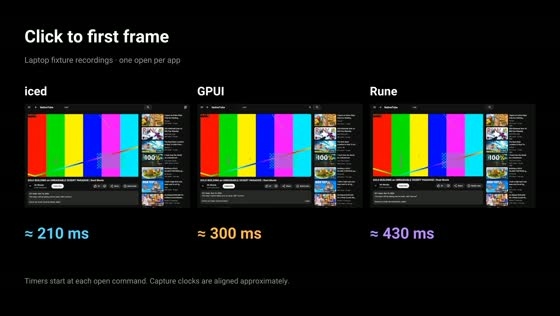
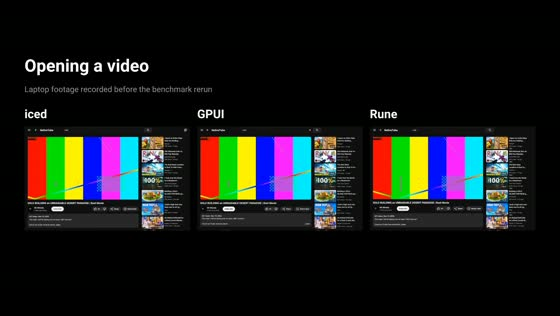
Animate framework update paths and clarify benchmark footage

diff --git a/tools/viz/obsidian.py b/tools/viz/obsidian.py
@@ -322,6 +322,86 @@ def demo():
     return {"feature captures": [str(shot[0].relative_to(data.ROOT)) for shot in shots]}
 
 
+def framework_updates():
+    """Animate a UI update and two portions of an illustrative scroll."""
+    updates = (
+        ("Widget message", "Update, then view"),
+        ("Entity update", "View invalidation"),
+        ("Live value", "Bound property"),
+    )
+    paths = (
+        ("iced", "Custom scroller", "Translate cards", "Message + relayout"),
+        ("gpui", "Invalidate page", "Taffy layout", "Taffy layout"),
+        ("rune", "Live offset", "Translate cards", "Commit view + layout"),
+    )
+    update_time, scroll_time = 4.25, 9.75
+
+    def frame(t, _cache):
+        scrolling = t >= update_time
+        scroll_at = t - update_time
+        crosses_band = scroll_at >= 4.8
+        if scrolling:
+            progress = ease_out((scroll_at - (5.15 if crosses_band else .8)) / 1.9)
+            offset = round(44 + 83 * progress if crosses_band else 44 * progress)
+            heading = "One scroll, three paths"
+            phase = "Crossing a band boundary" if crosses_band else "Scrolling within a band"
+        else:
+            progress = ease_out((t - .55) / 2.2)
+            offset = 0
+            heading = "From state to screen"
+            phase = "Example: highlight a thumbnail"
+        image = Image.new("RGB", SIZE, "black")
+        draw = ImageDraw.Draw(image)
+        draw.text((112, 92), heading, font=face(80, True), fill=WHITE)
+        draw.text((116, 205), phase, font=face(42), fill="#d6d6d6")
+        draw.text((1808, 218), "NativeTube · schematic", font=face(30), fill=SECONDARY, anchor="ra")
+
+        for index, ((app, scroller, within, across), (event, update)) in enumerate(zip(paths, updates, strict=True)):
+            y = 371 + index * 221
+            color = data.APP_COLORS[app]
+            draw.text((116, y), data.NAMES[app], font=face(62, True), fill=color, anchor="lm")
+            for edge, (start, end) in enumerate(((665, 782), (1224, 1344))):
+                draw.line((start, y, end, y), fill=RING, width=3)
+                draw.polygon(((end, y), (end - 12, y - 7), (end - 12, y + 7)), fill=RING)
+                pulse = 2 * progress - edge
+                if 0 < pulse < 1:
+                    draw.circle((start + (end - start) * pulse, y), 6, fill=color)
+
+            entry = scroller if scrolling else event
+            stage = (across if crosses_band else within) if scrolling else update
+            highlight = (app == "gpui" or crosses_band) if scrolling else progress > .5
+            for left, right, text, emphatic in (
+                (339, 665, entry, False),
+                (782, 1224, stage, highlight),
+            ):
+                draw.rounded_rectangle((left, y - 51, right, y + 51), radius=16,
+                                       fill="#171717" if emphatic else "#0c0c0c",
+                                       outline=color if emphatic else RING, width=2)
+                draw.text(((left + right) / 2, y), text, font=face(40, emphatic),
+                          fill=WHITE, anchor="mm")
+
+            # Clip the same moving stack to each viewport. The schematic uses equal motion.
+            tile = Image.new("RGB", (440, 150), "#101010")
+            cards = ImageDraw.Draw(tile)
+            for card in range(5):
+                top = 16 + 65 * card - offset
+                cards.rounded_rectangle((22, top, 417, top + 49), radius=8,
+                                        fill="#252525" if card % 2 == 0 else "#303030")
+                accented = card == (2 if scrolling else 1) and (scrolling or progress > .86)
+                cards.rounded_rectangle((32, top + 9, 86, top + 40), radius=4,
+                                        fill=color if accented else "#565656")
+                cards.line((104, top + 19, 260 + 20 * card, top + 19), fill="#a0a0a0", width=4)
+                cards.line((104, top + 32, 199 + 18 * card, top + 32), fill="#666666", width=3)
+            image.paste(tile, (1356, y - 75))
+            draw.rectangle((1356, y - 75, 1795, y + 74), outline=RING, width=2)
+
+        return image
+
+    encode_frames(data.OUT / "FrameworkUpdates.mp4", update_time + scroll_time, frame)
+    return {"NativeTube scroll paths": ["apps/iced/src/scroller.rs", "apps/gpui/NOTES.md",
+                                       "apps/rune/src/scroller.rs", "apps/rune/src/view.rs"]}
+
+
 def scroll_clip():
     """Keep the recorder's wall-clock timing for the continuous touchpad gesture."""
     WORK.mkdir(parents=True, exist_ok=True)

diff --git a/tools/viz/tours.py b/tools/viz/tours.py
@@ -360,15 +360,14 @@ def variant_name(replay, fly_cut):
 
 
 def first_frame_clip():
-    """One click per app at original speed, with the timer directly below its footage."""
+    """Show one archived video open per app at original speed."""
     WORK.mkdir(parents=True, exist_ok=True)
     lead, seconds = .75, 4.25
-    panel_w, panel_h, top = 568, 356, 354
+    panel_w, panel_h, top = 568, 356, 432
     overlay = Overlay()
-    overlay.text("Click to first frame", 84, 122, 0, seconds, size=78, bold=True)
-    overlay.text("Laptop fixture recordings · one open per app", 84, 204, 0, seconds, size=36, color=MUTED)
-    overlay.text("Timers start at each open command. Capture clocks are aligned approximately.",
-                 84, 959, 0, seconds, color=MUTED)
+    overlay.text("Opening a video", 84, 222, 0, seconds, size=78, bold=True)
+    overlay.text("Laptop footage recorded before the benchmark rerun",
+                 84, 304, 0, seconds, size=36, color=MUTED)
     args = ["ffmpeg", "-nostdin", "-hide_banner", "-loglevel", "error", "-y", "-filter_complex_threads", "2",
             "-f", "lavfi", "-i", f"color=black:s={W}x{H}:r={FPS}:d={seconds}"]
     graph, current, sources = [], "0:v", {}
@@ -381,17 +380,8 @@ def first_frame_clip():
         graph.append(f"[{i}:v]fps={FPS},scale={panel_w}:{panel_h},setsar=1[v{i}]")
         graph.append(f"[{current}][v{i}]overlay={x}:{top}[m{i}]")
         current = f"m{i}"
-        color = data.APP_COLORS[app]
-        overlay.text(data.NAMES[app], x, 310, 0, seconds, size=54, bold=True)
-        elapsed = tour.visible_frame - tour.opened
-        stop = lead + elapsed
-        for tick in range(math.ceil(elapsed * 30)):
-            start = lead + tick / 30
-            overlay.text(f"{round(tick * 100 / 30) * 10} ms", x, 795, start, min(stop, start + 1 / 30),
-                         size=70, mono=True, color=MUTED)
-        overlay.text(f"≈ {round(elapsed * 100) * 10} ms", x, 795, stop, seconds,
-                     size=70, mono=True, bold=True, color=color)
-        sources[f"{app} capture and clock"] = tour.sources
+        overlay.text(data.NAMES[app], x, top - 44, 0, seconds, size=54, bold=True)
+        sources[f"{app} archived capture and edit alignment"] = tour.sources
     ass = WORK / "FirstFrameRealTime.ass"
     overlay.write(ass)
     graph.append(f"[{current}]ass={ass.relative_to(data.ROOT)}:fontsdir=assets/fonts[out]")

diff --git a/tools/viz/render.py b/tools/viz/render.py
@@ -35,7 +35,7 @@ STILLS = (
     "FramePathStill", "EGLStill", "InstructionsStill", "PerCoreStill",
     "GPUStill", "SizesStill", "UpstreamStill", "CostStill",
 )
-PUBLICATION_VIDEOS = ("Demo", "FirstFrameRealTime", "ScrollRealTime")
+PUBLICATION_VIDEOS = ("Demo", "FrameworkUpdates", "FirstFrameRealTime", "ScrollRealTime")
 
 
 def scene_set(file, names, resolution, *, still, fly):
@@ -380,6 +380,7 @@ def main():
     existing = data.read(".cache/viz/out/sources.json") if (data.OUT / "sources.json").is_file() else {}
     for name, build in {
         "Demo": obsidian.demo,
+        "FrameworkUpdates": obsidian.framework_updates,
         "FirstFrameRealTime": tours.first_frame_clip,
         "ScrollRealTime": obsidian.scroll_clip,
     }.items():

diff --git a/docs/blog/x-article.md b/docs/blog/x-article.md
@@ -2,7 +2,7 @@
 
 For a Rust desktop app on Linux, I'd start with **iced**, reach for **GPUI** if layered controls are central to the design, and try **Rune** if I wanted reactive bindings for a custom UI and could pin a pre-1.0 toolkit.
 
-- **iced** had the lowest idle memory on both test machines with the video player prewarmed. It used the least CPU for scrolling and opened video fastest on the CPU-rendered VM. Its message-driven architecture made floating controls more work to wire up.
+- **iced** had the lowest idle memory on both test machines with the video player prewarmed. On the CPU-rendered VM, it used the least CPU for scrolling and opened video fastest. Its message-driven architecture made floating controls more work to wire up.
 - **GPUI** made floating menus, video overlays, and a custom seek bar easiest to build. It used the most idle memory and spent the most CPU time scrolling on the laptop. Two video opens timed out with prewarm disabled.
 - **Rune** used the fewest CPU instructions per drawn scroll frame on the laptop and had the lowest peak memory in the short playback test. This build required a git pin and two crate forks.
 
@@ -22,7 +22,9 @@ All three use the same Rust core for networking, image caching, scroll physics, 
 
 ### How each framework updates the UI
 
-**iced** follows an Elm-style loop. Widgets emit messages, `update(&mut self, Message)` changes state and can return a task, and `view` describes the UI. The mutable borrow keeps updates from re-entering. In NativeTube, a custom scroller uses `with_translation` to shift already-laid-out children until the visible range changes. Floating controls need more explicit state and message wiring.
+[MEDIA: .cache/viz/out/FrameworkUpdates.mp4 — How state reaches the screen in each framework, followed by an animated diagram of what changes during a NativeTube scroll.]
+
+**iced** follows an Elm-style loop. Widgets emit messages, `update(&mut self, Message)` changes state and can return a task, and `view` describes the UI. The mutable borrow keeps updates from re-entering. In NativeTube, a custom scroller uses `with_translation` to shift already-laid-out children. Once the scroll offset crosses a threshold, the scroller sends a message to rebuild the band of mounted cards. Floating controls need more explicit state and message wiring.
 
 **GPUI** keeps state in entities and renders views from that state. It checks entity borrows at runtime, so a callback that re-enters an entity update can panic. GPUI's `anchored()` and `deferred()` primitives make it easy to position and layer floating UI. In our client, scrolling still invalidates the page view and runs Taffy layout even with the page split into five cached views.
 
@@ -42,13 +44,13 @@ That single architectural change dwarfed every toolkit difference:
 
 - **Intel GPU laptop (shipped defaults, matched rerun):** the native apps used **0.087–0.100 cores** on the subsurface path vs. **0.418–0.422 cores** on forced software. The CPU retired **1.16–1.41 million instructions per rendered video frame** on the GPU path vs. **22.1–22.4 million** on forced software—a **16–19× reduction** across all three clients.
 - **GPU-less Fly VM (the flip):** Mesa's `llvmpipe` emulated OpenGL on the CPU, so the default EGL path burned **about 3.27 cores** and rendered roughly **150–154 frames in six seconds**, whereas forced software used **1.20–2.11 cores** and rendered **about 180 frames**.
-- **No energy claim:** System-wide Intel RAPL counters were too noisy to separate playback from idle (70–84 J idle vs. 62–96 J playing; GPU 1.27–1.75 vs. 1.54–1.56 J). Those readings leave the battery-life effect unresolved.
+- **Battery life remains an open question.** In the earlier AC counter study, package energy varied enough that the idle and playback readings overlapped.
 
 ---
 
 ## 3. Startup and Time to First Frame
 
-[MEDIA: .cache/viz/out/FirstFrameRealTime.mp4 — One open per app at normal speed. Each timer stops on the first visible fixture frame. These archived captures use approximate clock alignment.]
+[MEDIA: .cache/viz/out/FirstFrameRealTime.mp4 — One video open per app at normal speed, recorded before the matched benchmark below.]
 
 I matched the comment loading, prewarm timing, and first-frame markers. I also fixed double thumbnail decoding in Rune at 2× scale and sent iced’s scripted wheel events through its normal scroller.
 
@@ -96,7 +98,7 @@ The scroll paths in section 1 explain part of the spread. The viewports also mou
 
 ## 5. Memory: Idle and Playback Peaks Tell Different Stories
 
-The bottom row of the matched chart in Section 3 shows a clean split: with full prewarm, iced had the lowest Home idle memory on both machines, while Rune had the lowest peak across the short scenario (Home, open a video, six seconds of playback, then switch).
+With full prewarm, iced had the lowest Home idle memory on both machines. Rune had the lowest peak in the short playback scenario (Home, open a video, play for six seconds, then switch). The table includes both machines, and the chart in Section 3 shows the laptop results.
 
 | Full prewarm, process-tree PSS | iced | GPUI | Rune |
 |---|---:|---:|---:|
@@ -222,6 +224,8 @@ On Arrow Lake-P, `GT0` hosts render (`RCS`), copy (`BCS`), and compute (`CCS`); 
 
 - **GPU playback (10 s):** all three converged tightly—RCS **69.63** (iced) / **74.71** (GPUI) / **75.06** (Rune) Mcycles; VCS **16.19 / 9.12 / 8.70** Mcycles; BCS and CCS 0.00; RC6 sleep residency **7.75–7.82 s** out of 10 s.
 - **Wheel scroll (~2.7 s, 161–163 frames at 60 fps):** GPUI logged **35.56 Mcycles** RCS (runs: 28.4, 46.7, 35.6; 0.00 VCS) vs. Rune's **68.33 Mcycles** (runs: 77.4, 68.3, 67.8; 0.00 VCS). Rune also logged 1–2 long frames per run (max 29–64 ms), while iced and GPUI had zero. iced's wheel runs 1–2 were contaminated by other system activity, source unrecorded (RCS 348.0 / 123.6, VCS 18.1 / 14.3, package 48.1 / 48.8 J); clean run 3 dropped to **38.5 Mcycles** RCS and **0.46** VCS (23.2 J).
+
+In the earlier AC counter study, Intel RAPL measured **70–84 J** of package energy over 10 seconds at idle and **62–96 J** over 10 seconds of playback. During playback, GPU-domain energy was **1.27–1.75 J** on the software path and **1.54–1.56 J** on the GPU subsurface path.
 
 ### Subsurface, EGL vendor selection, and playback pipeline details
 

diff --git a/tools/viz/README.md b/tools/viz/README.md
@@ -41,8 +41,9 @@ Everything renders on pure black. Glass (#121212 with sheen and an 8 % rim) is l
 
 The side-by-sides use archived footage. A 2 × 2 grid shows the recordings, cut per step and aligned on each tile's own command. Native tiles have the app name, a running timer for timed steps, and the step label. The timer stops and the tile flashes when the app reaches its mark. The open step stops at the first visible video frame. The live-network YouTube web tile plays alongside the native race with a step label.
 
-The article uses three short exports. `Demo.mp4` has one shot per feature.
-`FirstFrameRealTime.mp4` shows one archived open per app with the timer beneath its footage.
+The article uses four short exports. `Demo.mp4` has one shot per feature.
+`FrameworkUpdates.mp4` diagrams the three UI update paths and how scrolling works within and across card bands.
+`FirstFrameRealTime.mp4` shows one archived open per app at normal speed and labels the footage as predating the matched benchmark.
 `ScrollRealTime.mp4` uses a continuous 60 fps recording from a private Sway output. Its source
 and unretimed trim are in `.cache/viz/scroll-capture/`. The [matched benchmark](../../docs/media/fair.md)
 provides the measured comparisons, including the separate wheel workload. The Manim explainers
@@ -56,8 +57,8 @@ The renderer also writes `cover.png` (1600×900), `posters/<video>.png`,
 With `VIZ_AUDIT_TEXT=1`, which `render.py` sets, every 0.25 s sample of each explainer must pass these gates, and a failure aborts the render. (a) Everything visible stays within a 96 px safe frame after the camera transform. (b) Text is at least 22 px em for the footnote and 32 px for everything else. (c) At most 14 prose words are on screen at once; numbers, units, app names and the footnote don't count. (d) No glass container covers more than 35 % of the frame. (e) No text overlaps other text. Summaries are written to `.cache/viz/gates/`. `audit.py --gates` checks them, plus (f): background pixels outside the glass decode to pure #000 at every 0.25 s sample. `render.py` runs it last and fails if any gate fails.
 
 ```sh
-nice -n 19 ionice -c3 .cache/viz/venv/bin/python -B tools/viz/render.py --only Cover Demo FirstFrameRealTime ScrollRealTime
-nice -n 19 ionice -c3 .cache/viz/venv/bin/python -B tools/viz/audit.py --gates Demo FirstFrameRealTime ScrollRealTime
+nice -n 19 ionice -c3 .cache/viz/venv/bin/python -B tools/viz/render.py --only Cover Demo FrameworkUpdates FirstFrameRealTime ScrollRealTime
+nice -n 19 ionice -c3 .cache/viz/venv/bin/python -B tools/viz/audit.py --gates Demo FrameworkUpdates FirstFrameRealTime ScrollRealTime
 ```
 
 ## Measurement choices
